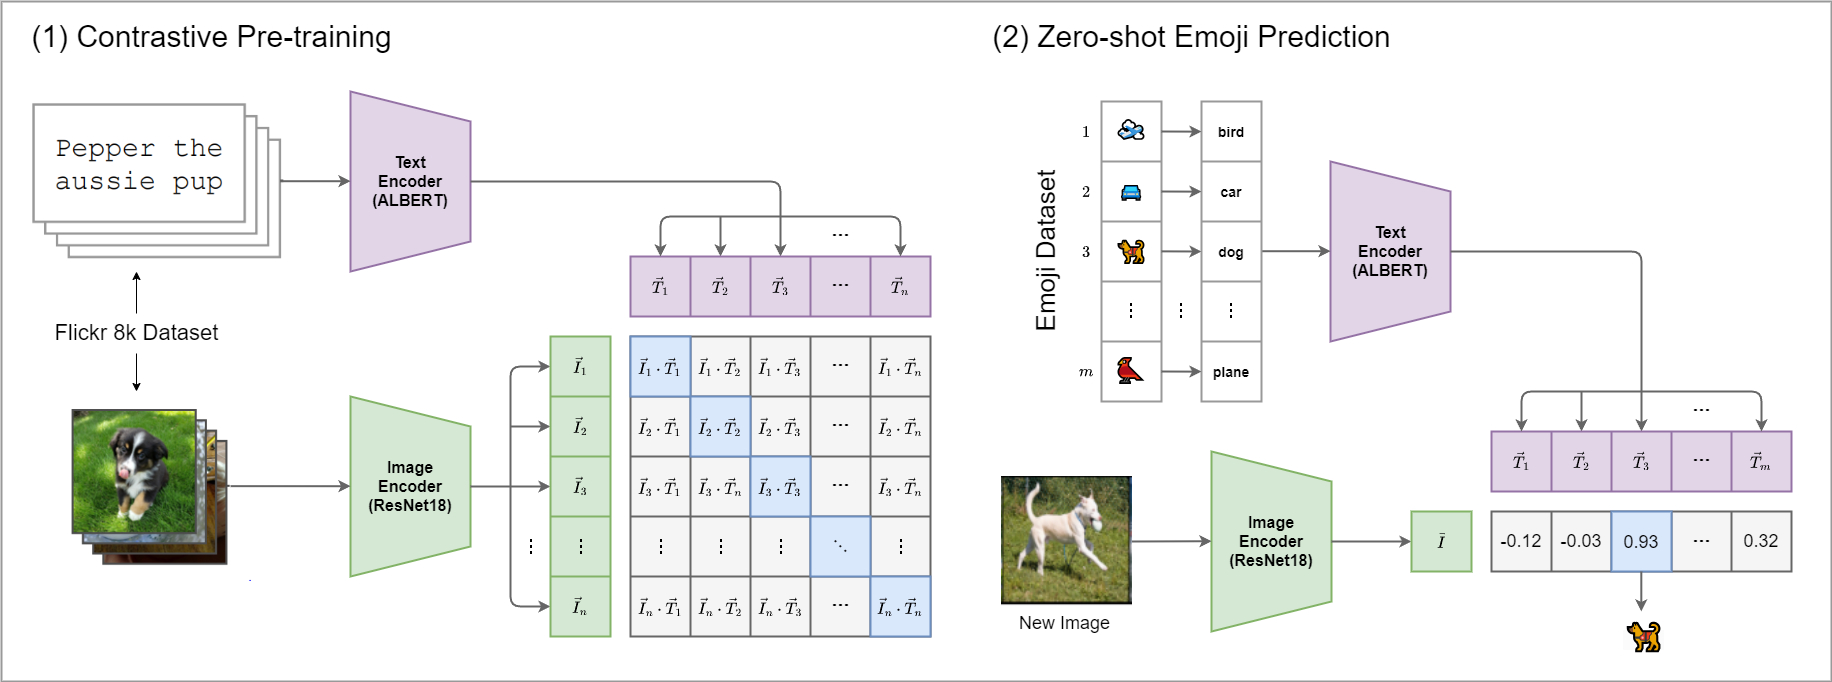
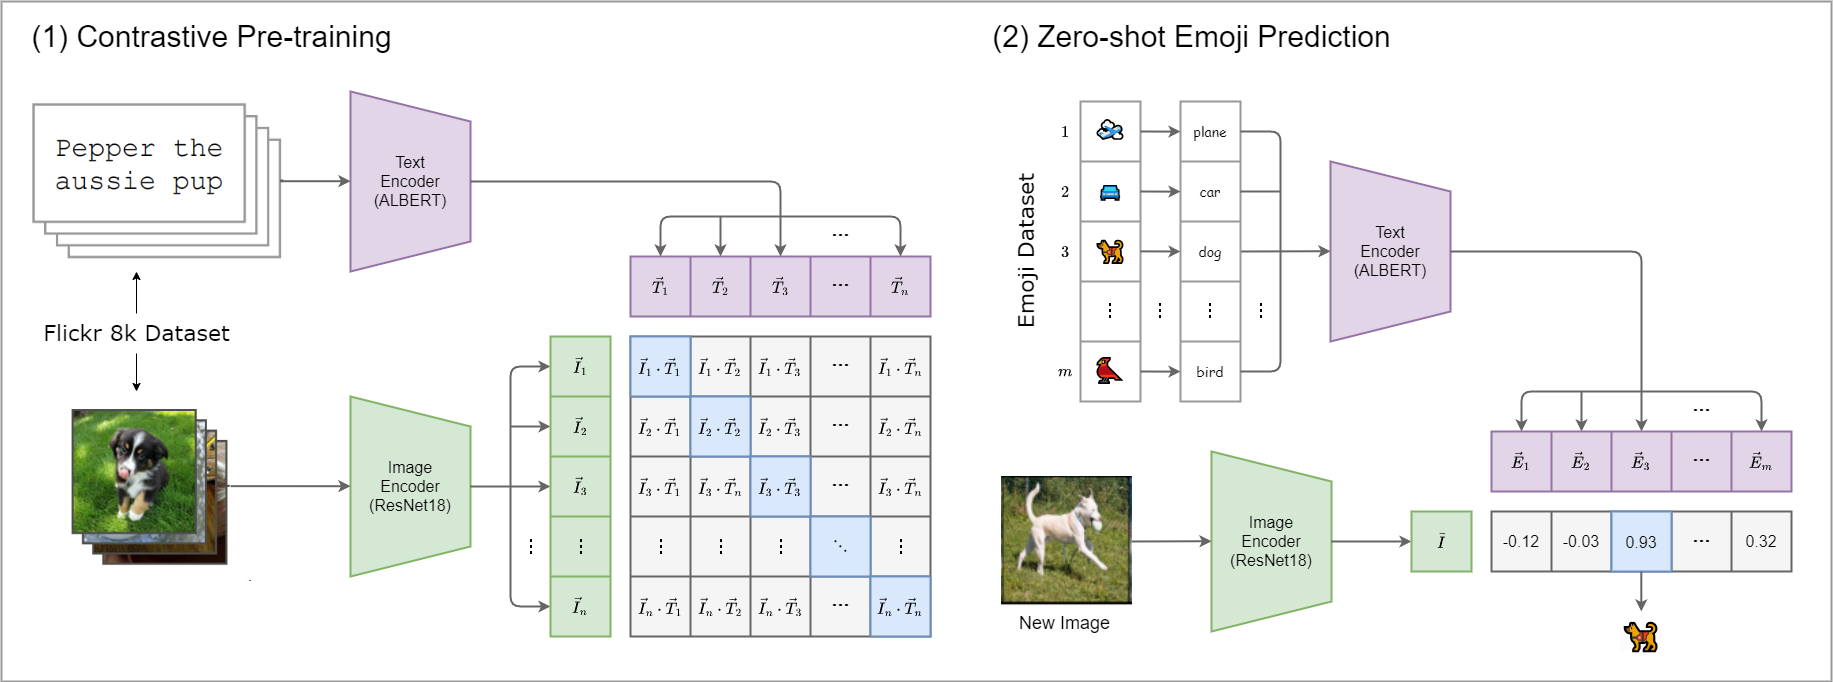
Refined Model's graph

diff --git a/README.md b/README.md
@@ -5,7 +5,7 @@ This repository contains the code for Image2Emoji, a Zero-shot Emoji Prediction 
 ## 📎 Model
 OpenAI's CLIP (Contrastive Language-Image Pretraining) model can embed different types of data into a common feature space by learning to predict which images correspond to which text descriptions.
 I opted for lightweight models for each encoder (Pretrained ResNet18 for the image encoder and Pretrained ALBERT for the text encoder), aiming to deploy as a web application.
-After fine-tuning the model on the Flickr-8k dataset, the model is able to predict the most similar emoji for a given image.
+After fine-tuning the model on the Flickr-8k dataset, the model is able to predict the most similar emoji for a given image by calculating the cosine similarity between the image and emoji embeddings.
 ![clip](pictures/clip.png)
 
 ## 📦 Installation
